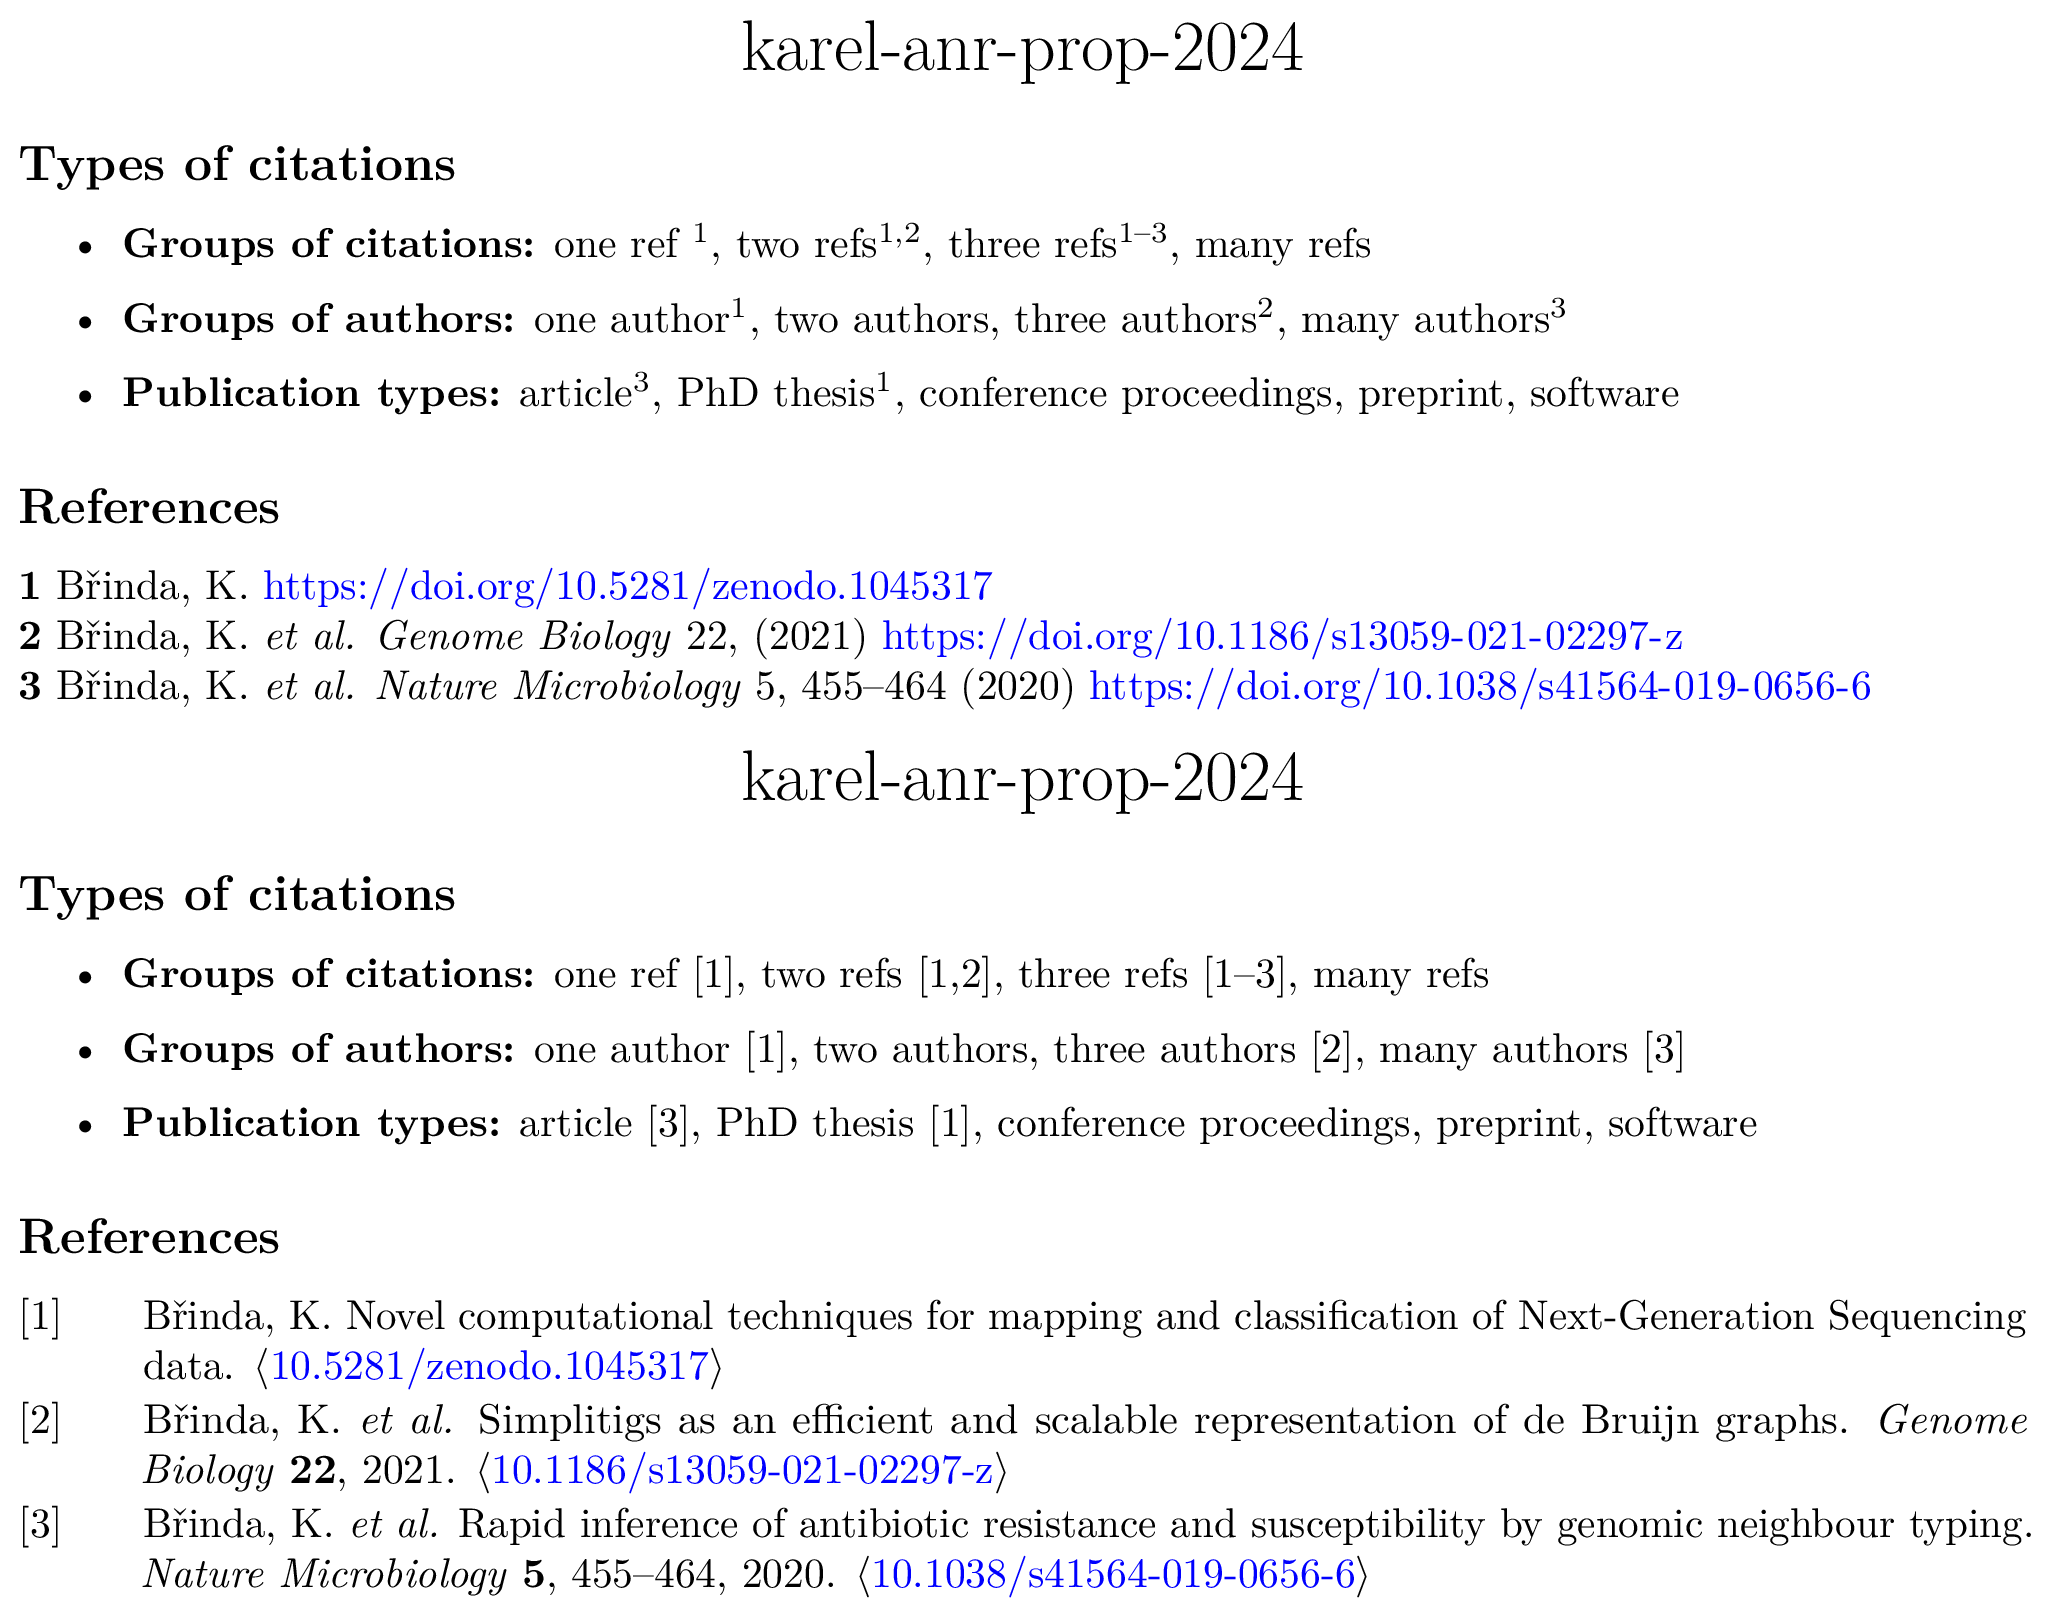
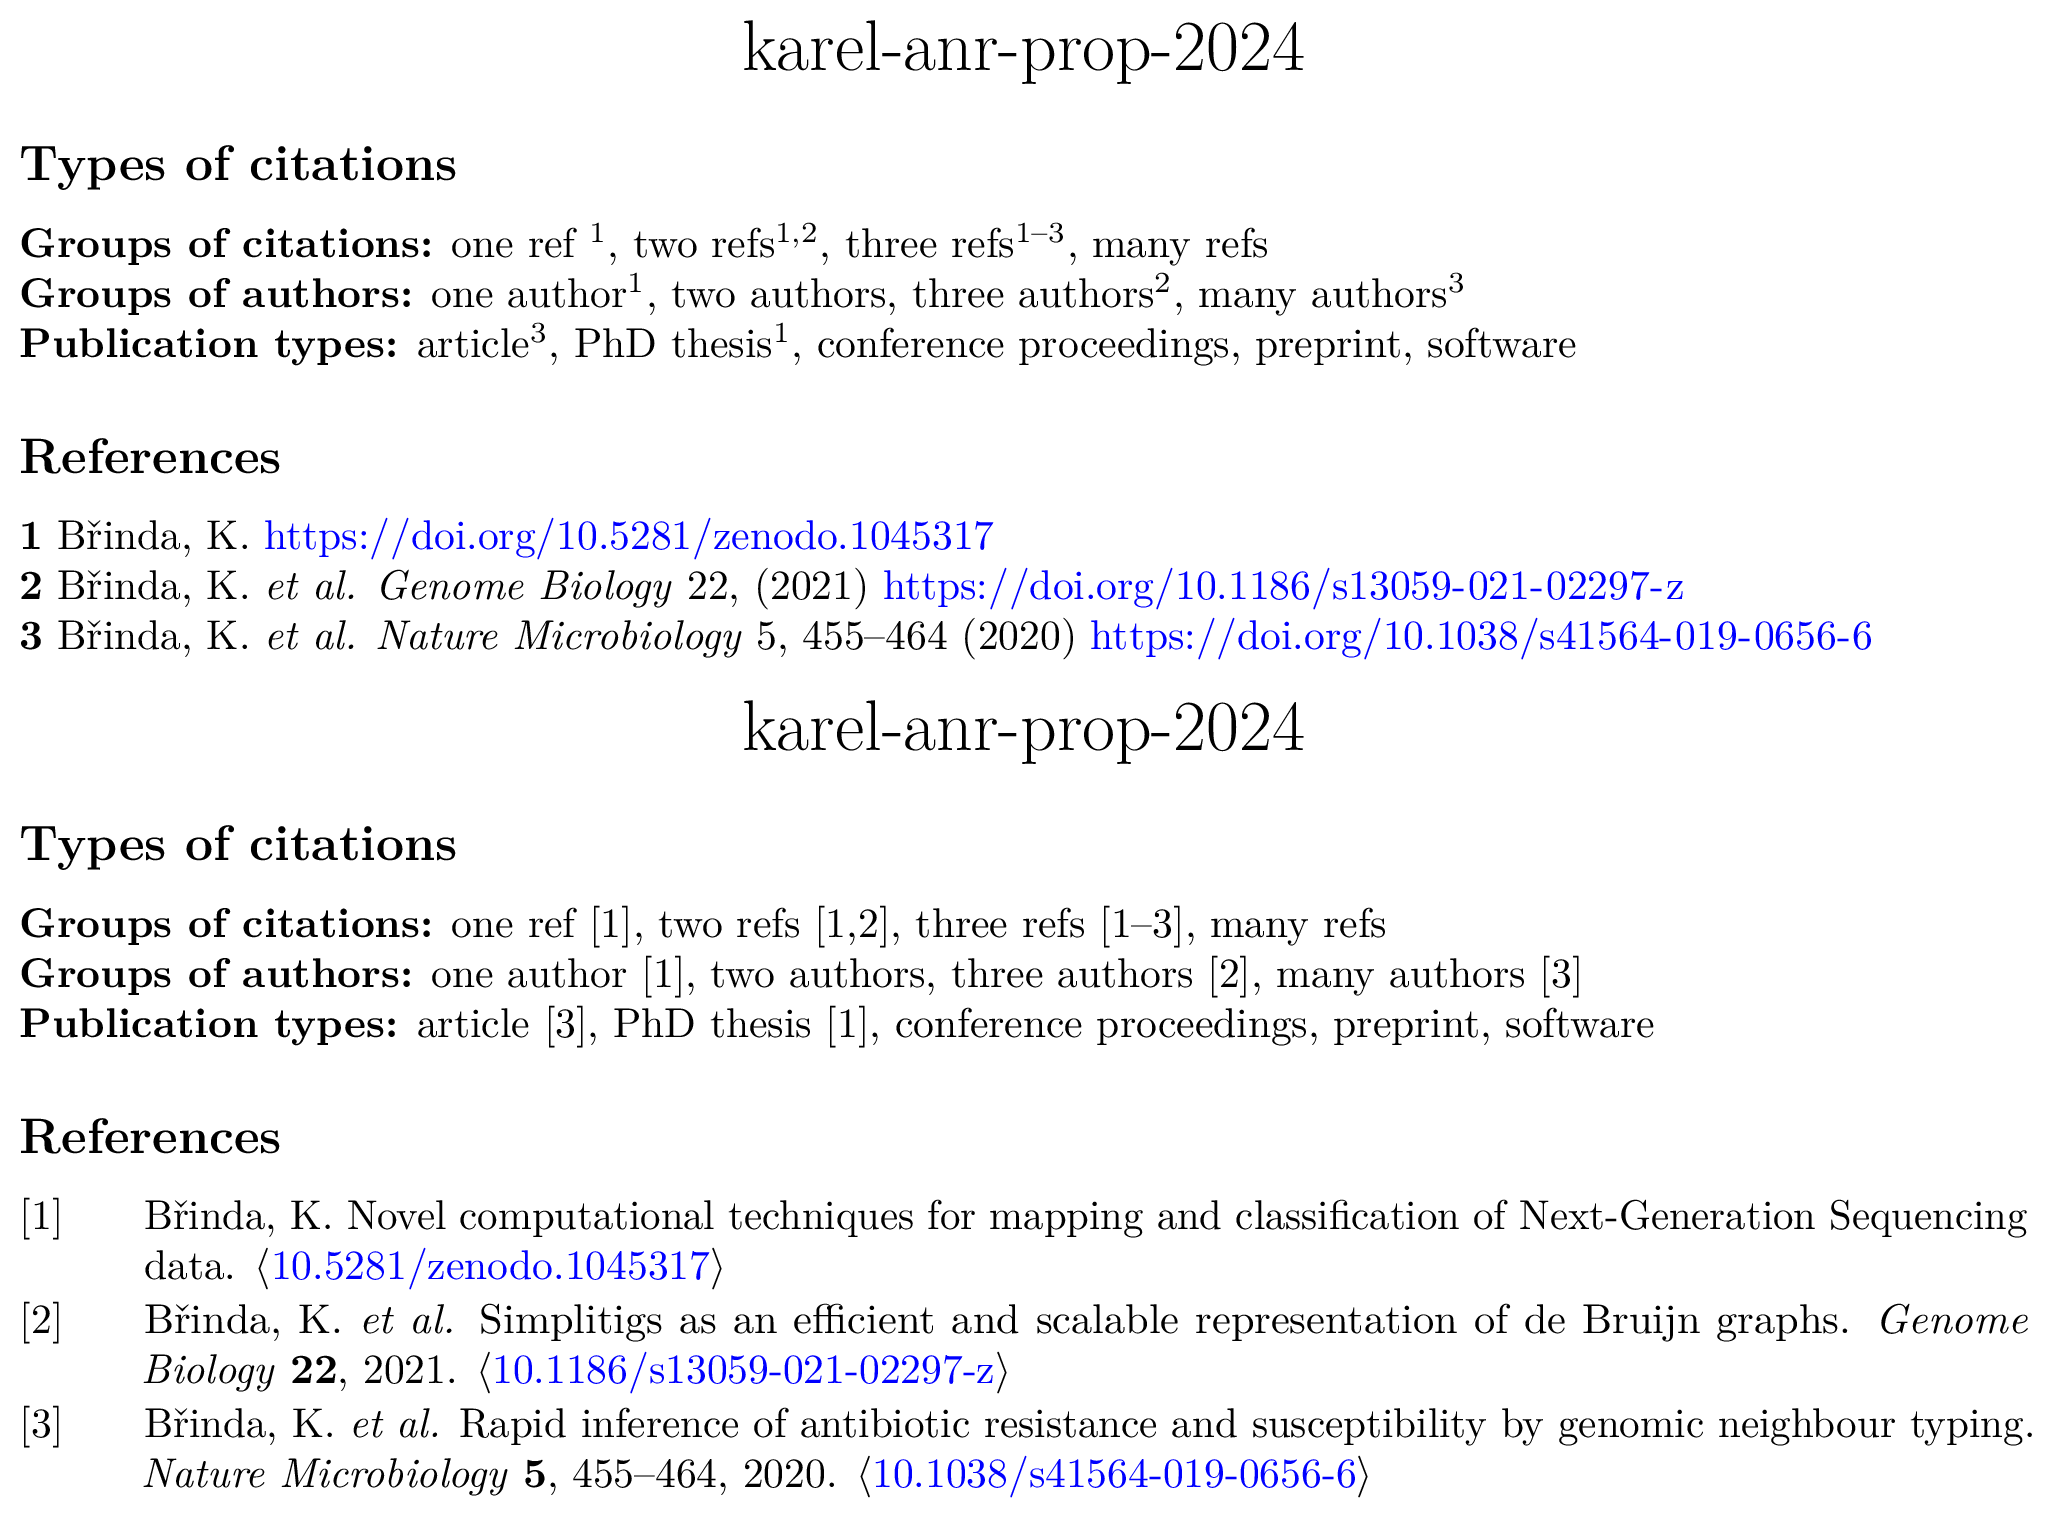
Reduce space between items

diff --git a/examples/template.tex b/examples/template.tex
@@ -5,17 +5,12 @@
 
 \subsection{Types of citations}
 
-\begin{itemize}
-\item
-	\textbf{Groups of citations:} one ref {\cite{karelPhD}}, two refs \cite{karelPhD,simplitigs},
-  three refs \cite{karelPhD,gnt,simplitigs}, many refs
-\item
-  \textbf{Groups of authors:} one author \cite{karelPhD}, two authors, three
-  authors \cite{simplitigs}, many authors \cite{gnt}
-\item
-  \textbf{Publication types:} article \cite{gnt}, PhD thesis \cite{karelPhD},
+\textbf{Groups of citations:} one ref {\cite{karelPhD}}, two refs \cite{karelPhD,simplitigs},
+  three refs \cite{karelPhD,gnt,simplitigs}, many refs \\
+\textbf{Groups of authors:} one author \cite{karelPhD}, two authors, three
+  authors \cite{simplitigs}, many authors \cite{gnt} \\
+\textbf{Publication types:} article \cite{gnt}, PhD thesis \cite{karelPhD},
   conference proceedings, preprint, software
-\end{itemize}
 
 
 \subsection{References}
